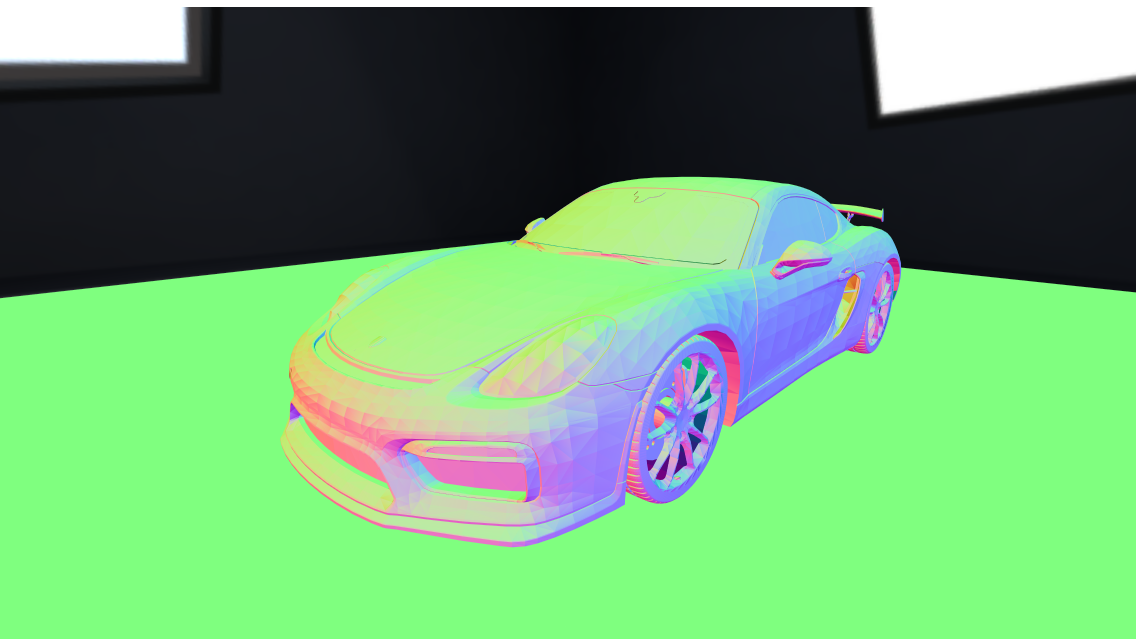
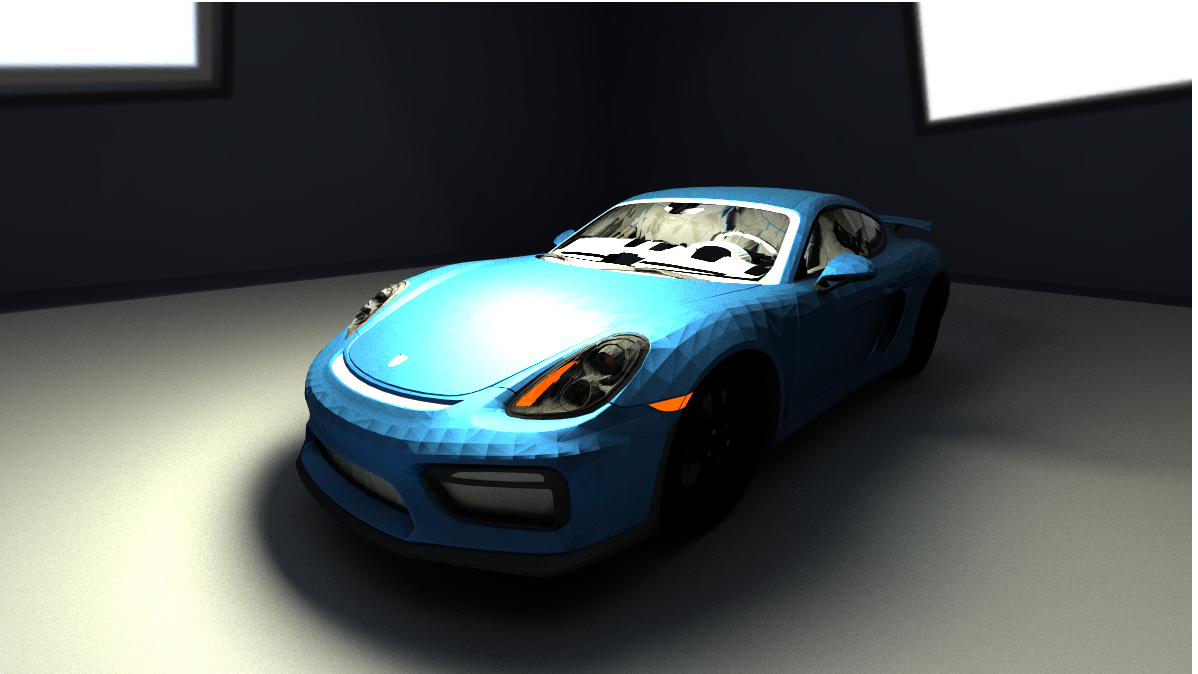
Area Lights unfinished

diff --git a/Assets/Scripts/PathTracingLight.cs b/Assets/Scripts/PathTracingLight.cs
@@ -5,7 +5,8 @@ using UnityEngine;
 public enum PtLightType {
     Point,
     Spot,
-    Directional
+    Directional,
+    Area
 }
 
 public struct LightBufferObject {
@@ -51,6 +52,9 @@ public class PathTracingLight : MonoBehaviour
             case LightType.Spot:
                 this.Type = PtLightType.Spot;
                 SpotAngle = light.spotAngle;
+                break;            
+            case LightType.Area:
+                this.Type = PtLightType.Area;
                 break;
             default:
                 this.Type = PtLightType.Point;
